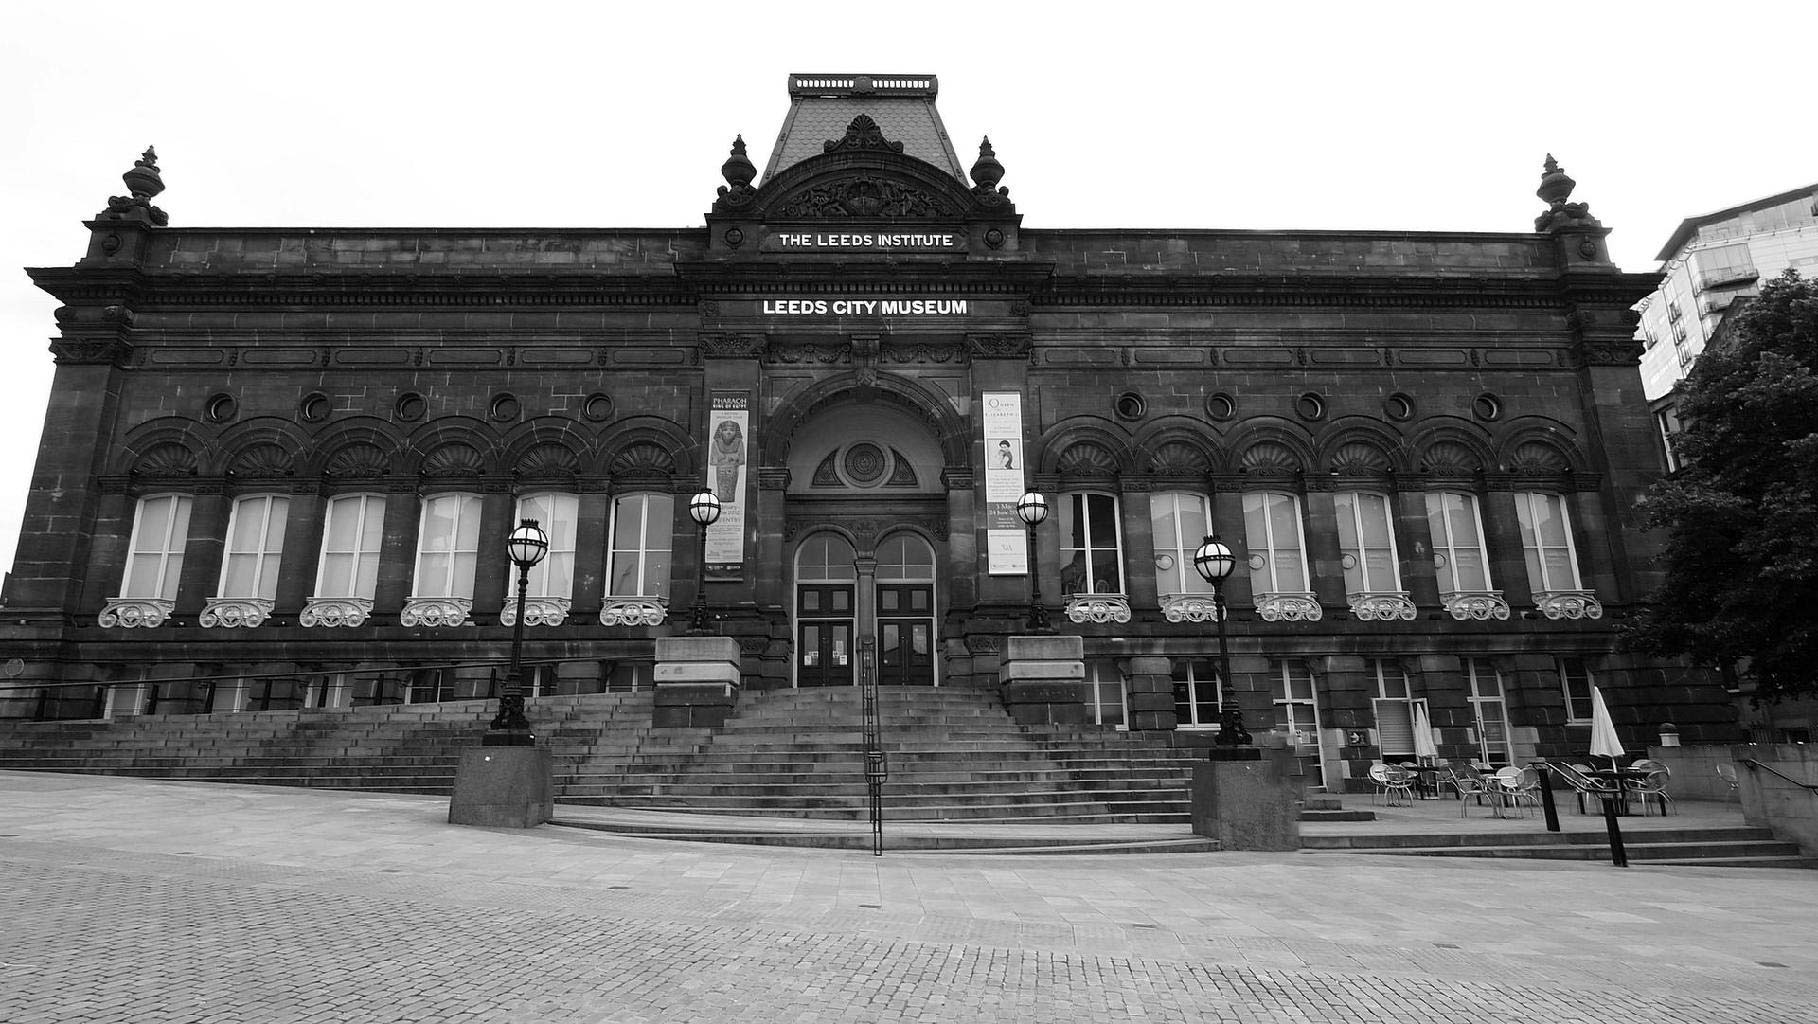
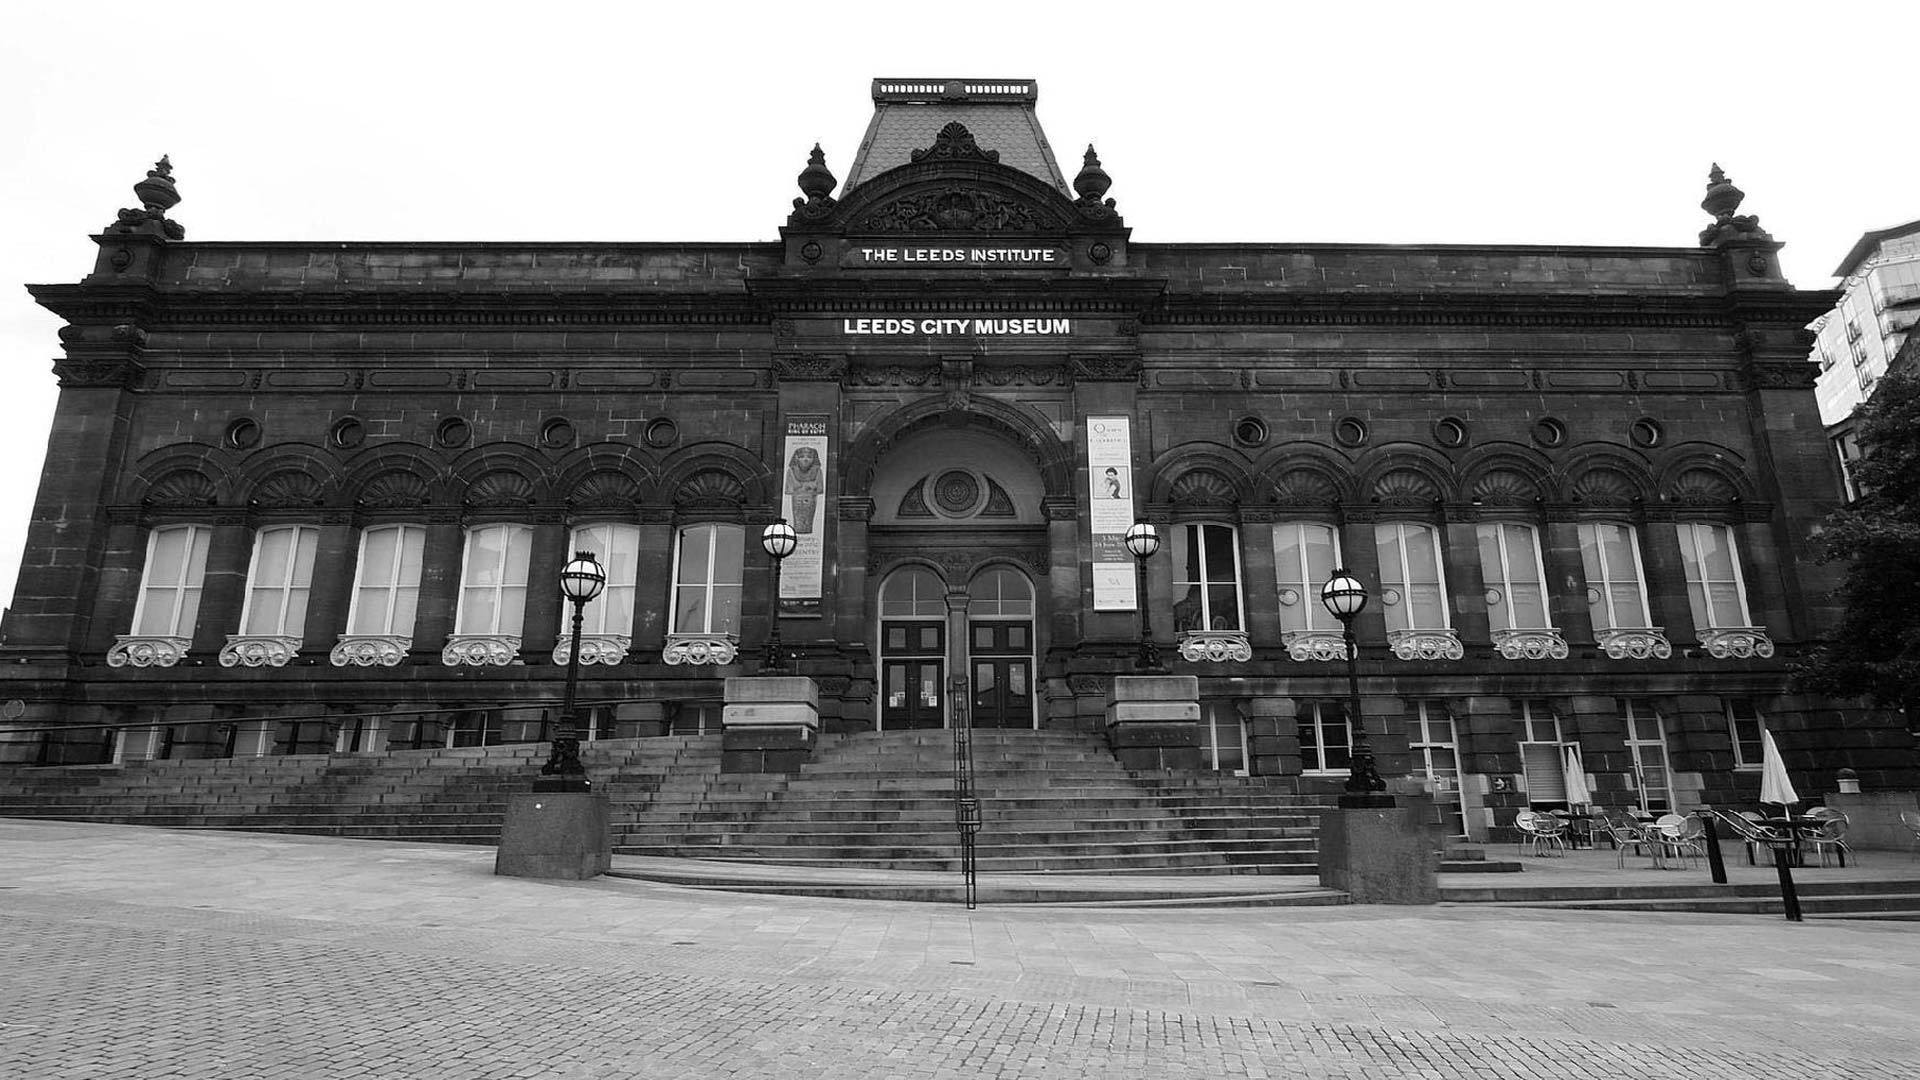
added front door image

diff --git a/public/css/styles.css b/public/css/styles.css
@@ -85,5 +85,18 @@
 
 
 /*----------------------------------------------------------------------------------------------------------------*\
-    ENTERANCE ROOM
+    FRONT DOOR
+\*----------------------------------------------------------------------------------------------------------------*/
+.frontDoor {
+	background: url("../images/scenes/frontDoor/background.jpg") no-repeat;
+	background-position: center;
+	background-size: cover;
+}
+
+
+
+
+
+/*----------------------------------------------------------------------------------------------------------------*\
+    ENTERANCE
 \*----------------------------------------------------------------------------------------------------------------*/
